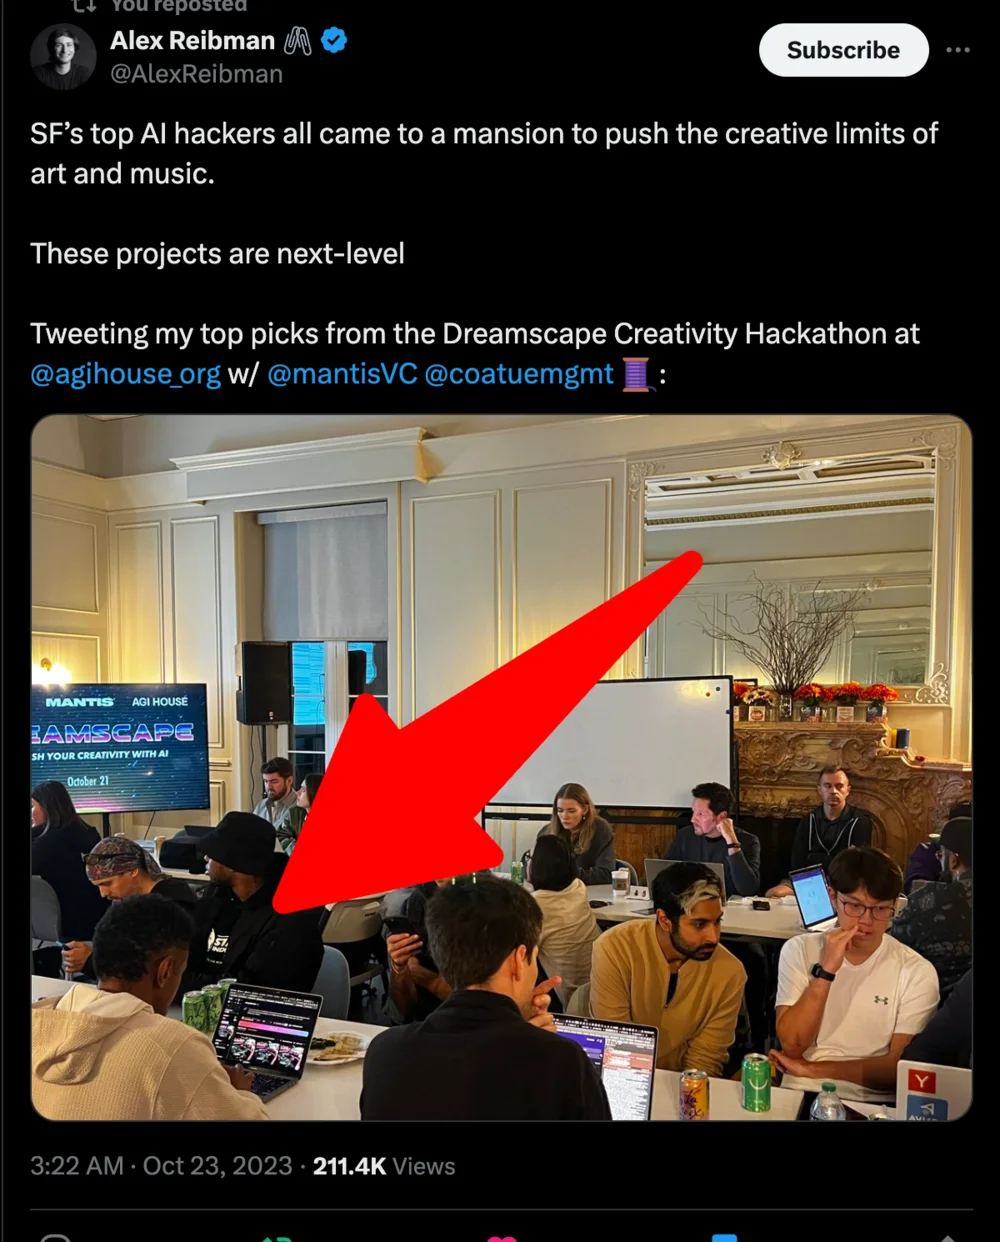
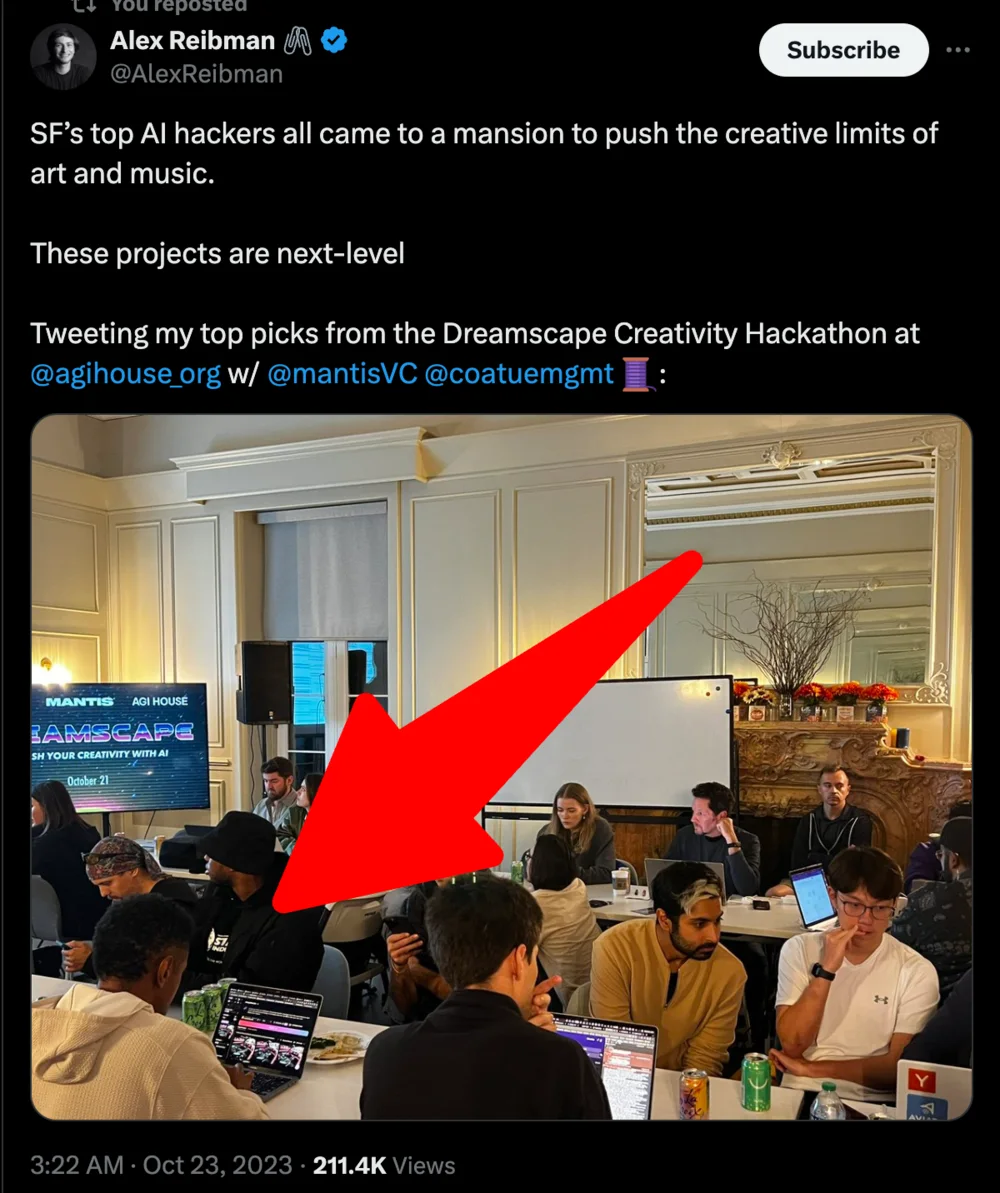
feat: Maven and Udemy screenshots, marquee back under hero, message-first tabs
Receipts now uses the real assets for all four screenshot cards:
- Maven: the actual course card replaces the rebuilt native one. It already
  carries the logo, kicker, title and all three hosts, so the card headline
  is "Maven Instructor." rather than repeating text that's legible in the
  image. The 'course' kind and CourseCard go with it.
- Udemy: the instructor profile, cropped to the left column so the two
  headline numbers stay readable at card width.
- Tweet crop tightened to end on the views line; X's action bar was
  bleeding a sliver in below it.

The Udemy profile reports 59,872 total learners and 1,952 reviews, so the
About stat moves from an understated "55K+ Udemy Students" to "59.8K
Udemy Learners".

Layout:
- Logo marquee returns to directly under the hero; the featured deck stays
  at the bottom. The marquee drops the z-10 it only needed while it followed
  the pinned deck.
- Contact tabs are Send a Message first and by default, since the scheduler
  is the slower of the two paths.

That last change would have quietly broken the scheduler preload: the
Calendly panel is now hidden on load, and a display:none element never
fires an IntersectionObserver, so the widget would only have started
loading on click. The warm-up trigger moves to a sentinel in
ContactSection that renders regardless of the active tab. Verified: zero
Calendly requests before scrolling, eight on approach, and the calendar is
already rendered when you switch tabs.

diff --git a/src/App.tsx b/src/App.tsx
@@ -231,15 +231,15 @@ function HomePage() {
       <ScrollProgress />
       <Navbar />
       <HeroSection />
+      <LogoMarquee />
       <AboutSection />
       <BragWall />
       <ServicesSection />
       <CaseStudySection />
       <TestimonialCarousel />
-      {/* Logos and the featured deck sit at the bottom deliberately: proof of
-          work leads, brand recognition closes. */}
+      {/* The featured deck closes the page: proof of work leads, brand
+          recognition closes. The logo strip stays under the hero. */}
       <FeaturedWorkSection />
-      <LogoMarquee />
       <Suspense fallback={<div className="h-screen border-t border-white/5" />}>
         <FunnelSection />
       </Suspense>
@@ -453,7 +453,7 @@ function AboutSection() {
   const stats = [
     { value: '800K–1M', label: 'Organic Leads / Month' },
     { value: '$60M+', label: 'Ad Budget Managed' },
-    { value: '55K+', label: 'Udemy Students' },
+    { value: '59.8K', label: 'Udemy Learners' },
     { value: '5M+', label: 'Book Downloads' },
   ];
 
@@ -638,9 +638,7 @@ function LogoMarquee() {
   ];
 
   return (
-    // relative z-10: the marquee now follows the pinned Featured Work deck,
-    // whose decorative layer overhangs whatever comes after it.
-    <div className="relative z-10 py-10 border-y border-white/5 overflow-hidden">
+    <div className="py-10 border-y border-white/5 overflow-hidden">
       <p className="text-xs md:text-sm uppercase tracking-[0.3em] text-white text-center mb-8">Brands &amp; Teams I've Worked With</p>
       <div className="animate-marquee-logos flex items-center whitespace-nowrap w-max">
         {[...logos, ...logos].map((logo, i) => (
@@ -910,36 +908,25 @@ function SilkBackground() {
 
 const CALENDLY_URL = 'https://calendly.com/brian-cliette/30min?hide_event_type_details=1&hide_gdpr_banner=1';
 
-function CalendlyEmbed() {
+/**
+ * Injects Calendly's widget.js once. `warm` is driven by a sentinel that lives
+ * outside the tab panels — this component is inside the inactive panel by
+ * default, and a display:none element never fires an IntersectionObserver, so
+ * observing from in here would mean the scheduler only started loading once
+ * someone clicked the tab.
+ */
+function CalendlyEmbed({ warm }: { warm: boolean }) {
   const containerRef = useRef<HTMLDivElement>(null);
   const [loaded, setLoaded] = useState(false);
 
-  // Lazy-load Calendly's widget.js when the container nears the viewport,
-  // so it stays off the critical path and doesn't stutter the hero.
   useEffect(() => {
-    const el = containerRef.current;
-    if (!el) return;
-    let cancelled = false;
-
-    const observer = new IntersectionObserver(entries => {
-      if (!entries[0].isIntersecting) return;
-      observer.disconnect();
-
-      // Only inject the script once
-      if (cancelled || document.querySelector('script[src*="calendly.com/assets/external/widget.js"]')) {
-        setLoaded(true);
-        return;
-      }
-
-      const script = document.createElement('script');
-      script.src = 'https://assets.calendly.com/assets/external/widget.js';
-      script.async = true;
-      document.head.appendChild(script);
-    }, { rootMargin: '2000px 0px' });
-
-    observer.observe(el);
-    return () => { cancelled = true; observer.disconnect(); };
-  }, []);
+    if (!warm) return;
+    if (document.querySelector('script[src*="calendly.com/assets/external/widget.js"]')) return;
+    const script = document.createElement('script');
+    script.src = 'https://assets.calendly.com/assets/external/widget.js';
+    script.async = true;
+    document.head.appendChild(script);
+  }, [warm]);
 
   // The script loading only means the iframe exists — it paints opaque white
   // for a moment first. Calendly posts a message once the scheduler is actually
@@ -1012,7 +999,22 @@ function Field({
 }
 
 function ContactSection() {
-  const [tab, setTab] = useState<'call' | 'message'>('call');
+  const [tab, setTab] = useState<'call' | 'message'>('message');
+  const warmRef = useRef<HTMLDivElement>(null);
+  const [warmBooking, setWarmBooking] = useState(false);
+
+  // Start the scheduler roughly two screens out, whichever tab is showing.
+  useEffect(() => {
+    const el = warmRef.current;
+    if (!el) return;
+    const observer = new IntersectionObserver(entries => {
+      if (!entries[0].isIntersecting) return;
+      observer.disconnect();
+      setWarmBooking(true);
+    }, { rootMargin: '2000px 0px' });
+    observer.observe(el);
+    return () => observer.disconnect();
+  }, []);
   const [form, setForm] = React.useState<ContactPayload>(EMPTY_CONTACT);
   const [submitted, setSubmitted] = React.useState(false);
   const [sending, setSending] = React.useState(false);
@@ -1043,14 +1045,15 @@ function ContactSection() {
   });
 
   const tabs = [
-    { key: 'call' as const, label: 'Book a Call' },
     { key: 'message' as const, label: 'Send a Message' },
+    { key: 'call' as const, label: 'Book a Call' },
   ];
 
   return (
     // relative z-10: the pinned Featured Work layer overhangs this section — stack above it.
     // scroll-mt clears the fixed navbar so anchor jumps don't land the tabs underneath it.
     <section id="contact-form" className="relative z-10 scroll-mt-28 pt-10 pb-32 px-6 md:px-16">
+      <div ref={warmRef} aria-hidden="true" className="absolute inset-x-0 top-0 h-px pointer-events-none" />
       <div className="max-w-5xl mx-auto">
 
         {/* Path selector */}
@@ -1085,7 +1088,7 @@ function ContactSection() {
           {/* Hidden rather than unmounted: unmounting threw away the loaded
               scheduler, so flipping tabs made you sit through the load again. */}
           <div className={tab === 'call' ? undefined : 'hidden'}>
-            <CalendlyEmbed />
+            <CalendlyEmbed warm={warmBooking} />
           </div>
           {tab === 'call' ? null : submitted ? (
             <motion.div

diff --git a/src/BragSection.tsx b/src/BragSection.tsx
@@ -105,48 +105,10 @@ function VideoCard({ item }: { item: Extract<BragItem, { kind: 'video' }> }) {
   );
 }
 
-function CourseCard({ item }: { item: Extract<BragItem, { kind: 'course' }> }) {
-  return (
-    <div className={`${CARD} p-5`}>
-      <div className="flex items-center justify-between mb-5">
-        <span className="text-sm font-black font-display tracking-tighter uppercase">{item.platform}</span>
-        <span className={TAG}>{item.tag}</span>
-      </div>
-
-      <p className="text-[10px] uppercase tracking-[0.2em] opacity-40 mb-3">{item.kicker}</p>
-      <h4 className={`${TITLE} text-2xl mb-5`}>{item.title}</h4>
-
-      <div className="space-y-3 pt-4 border-t border-white/5">
-        <div className="flex items-baseline gap-3">
-          <span className="w-1.5 h-1.5 rounded-full bg-[#2563EB] shrink-0 translate-y-[-2px]" />
-          <div>
-            <div className="text-sm font-bold leading-tight">Brian Cliette</div>
-            <div className="text-[11px] opacity-40 leading-tight">{item.role}</div>
-          </div>
-        </div>
-        {item.cohosts.map(host => (
-          <div key={host.name} className="flex items-baseline gap-3">
-            <span className="w-1.5 h-1.5 rounded-full bg-white/20 shrink-0 translate-y-[-2px]" />
-            <div>
-              <div className="text-sm opacity-60 leading-tight">{host.name}</div>
-              <div className="text-[11px] opacity-30 leading-tight">{host.role}</div>
-            </div>
-          </div>
-        ))}
-      </div>
-
-      <div className="mt-4">
-        <SourceLink href={item.href} label="View course" />
-      </div>
-    </div>
-  );
-}
-
 function BragCard({ item }: { item: BragItem }) {
   switch (item.kind) {
     case 'photo': return <PhotoCard item={item} />;
     case 'video': return <VideoCard item={item} />;
-    case 'course': return <CourseCard item={item} />;
   }
 }
 

diff --git a/src/data/brag.ts b/src/data/brag.ts
@@ -34,18 +34,6 @@ export type BragItem =
       duration: string;
       href?: string;
     }
-  | {
-      kind: 'course';
-      id: string;
-      tag: string;
-      title: string;
-      platform: string;
-      kicker: string;
-      role: string;
-      cohosts: { name: string; role: string }[];
-      href?: string;
-    };
-
 export const BRAG_ITEMS: BragItem[] = [
   {
     kind: 'photo',
@@ -98,17 +86,29 @@ export const BRAG_ITEMS: BragItem[] = [
     meta: 'November 2023',
   },
   {
-    kind: 'course',
+    kind: 'photo',
     id: 'maven',
     tag: 'Teaching',
-    platform: 'Maven',
-    kicker: 'Lightning Lab w/ AI Build Lab Community Leaders',
-    title: 'Layoffs to 7-Fig AI Service Business',
-    role: 'Founder, GTM Engineer',
-    cohosts: [
-      { name: 'Sara Davison', role: 'Founder, Agentic AI Growth Practitioner' },
-      { name: 'Tyler Fisk', role: 'Founder, Agentic AI Growth Practitioner' },
-    ],
+    image: '/brag/maven.webp',
+    alt: 'Maven course card for “Layoffs to 7 Fig AI Service Business”, featuring Brian Cliette, Sara Davison and Tyler Fisk',
+    ratio: 'wide',
+    fit: 'contain',
+    title: 'Maven Instructor.',
+    caption:
+      '“Layoffs to 7 Fig AI Service Business: How To Win In The New AI Economy” — a Lightning Lab with AI Build Lab community leaders.',
+    meta: 'Brian Cliette · Founder, GTM Engineer',
+  },
+  {
+    kind: 'photo',
+    id: 'udemy',
+    tag: 'Teaching',
+    image: '/brag/udemy.webp',
+    alt: 'Udemy instructor profile for Brian Cliette showing 59,872 total learners and 1,952 reviews',
+    ratio: 'wide',
+    fit: 'contain',
+    title: '59,872 Learners.',
+    caption: '30+ courses on Udemy, rated across 1,952 reviews.',
+    meta: 'Udemy instructor profile',
   },
   {
     kind: 'video',
